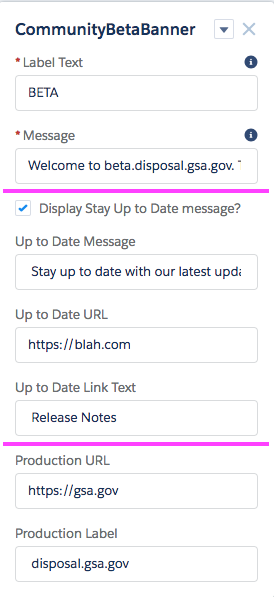
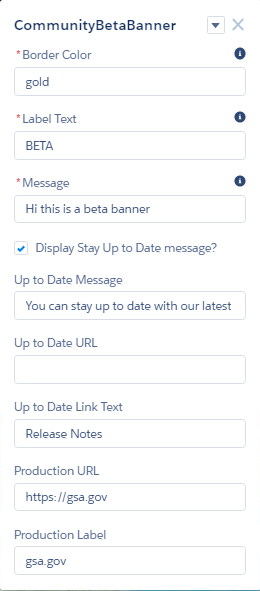
Added new VerticalNavigation component and updated BetaBanner

diff --git a/uswdsVerticalNavigation/src/aura/uswdsVerticalNavigation/uswdsVerticalNavigation.css b/uswdsVerticalNavigation/src/aura/uswdsVerticalNavigation/uswdsVerticalNavigation.css
@@ -1,0 +1,50 @@
+.THIS h2 {
+    font-size: 1.75rem;
+    line-height: 1.2;
+    margin-bottom: 2rem;
+}
+.THIS .usa-sidenav {
+    margin-bottom: 0;
+    margin-top: 0;
+    list-style-type: none;
+    padding-left: 0;
+    font-family: Source Sans Pro Web,Helvetica Neue,Helvetica,Roboto,Arial,sans-serif;
+    font-size: 1.06rem;
+    line-height: 1.3;
+    border-bottom: 1px solid #e6e6e6;
+}
+
+.THIS .usa-sidenav__item {
+    border-top: 1px solid #e6e6e6;
+}
+.THIS .usa-sidenav a {
+    color: #5c5c5c;
+    display: block;
+    padding: .5rem 1rem;
+    text-decoration: none; 
+}
+.THIS .site-nav-secondary ul>li {
+    margin-bottom: 0;
+    max-width: unset;
+}
+.THIS .usa-nav__submenu-list>li {
+    margin-bottom: 0;
+    max-width: unset;
+}
+.THIS  .usa-sidenav>li {
+    margin-bottom: 0;
+    max-width: unset;
+}
+.THIS .usa-sidenav__sublist>li {
+    margin-bottom: 0;
+    max-width: unset;
+}
+.THIS .usa-sidenav__sublist {
+    list-style-type: none;
+    padding-left: 0;
+    margin: 0;
+    font-size: 1rem;
+}
+.THIS .usa-sidenav__sublist a {
+    padding-left: 2rem;
+}

diff --git a/uswdsVerticalNavigation/src/aura/uswdsVerticalNavigation/uswdsVerticalNavigationController.js b/uswdsVerticalNavigation/src/aura/uswdsVerticalNavigation/uswdsVerticalNavigationController.js
@@ -1,0 +1,8 @@
+({
+    onClick : function(component, event, helper) {
+        var id = event.target.dataset.menuItemId;
+        if (id) {
+            component.getSuper().navigate(id);
+         }
+   }
+})

diff --git a/communityBetaBanner/src/aura/communityBetaBanner/communityBetaBanner.css b/communityBetaBanner/src/aura/communityBetaBanner/communityBetaBanner.css
@@ -23,5 +23,5 @@
 @media only screen and (max-width: 1023px) {
     .THIS .padding-small-size {
          padding-top: .75rem;
-    }
+    }   
 }

diff --git a/communityBetaBanner/README.md b/communityBetaBanner/README.md
@@ -3,20 +3,26 @@ This component creates a simple site banner which can indicate to users that a g
 
 ![Beta Banner for Lightning Communities](betaBanner.png)
 
-# Installation Instructions
+## Installation Instructions
 Most apps require a simple deployment via package.xml. Spell out all of the steps here.
 
 1. Deploy package via ANT, `ant deployCode`
 
 # Usage Instructions
-Banner is comprised of three primary sections.
+Banner is comprised of three primary sections as well as the ability to change the banner color.
 ![Builder Menu](communityBetaBannerConfig.png)
 
-## Label & Message
+### Border Color
+Defaults to gold (#ffd700). Input accepts recognized color names or hex values, # must be included, as described at [https://www.w3.org/wiki/CSS/Properties/color/keywords](https://www.w3.org/wiki/CSS/Properties/color/keywords).
+
+### Label & Message
 The label is the text that lives within the gold block. It is suggested to use ALPHA or BETA. The message is the note to users about the site.
 
-## Up to Date Message
+### Up to Date Message
 This is a toggle-able feature which allows for the display of a further message including a link. Here, a site admin can direct users to release notes or another link with information about the new site.
 
-## Production Link
+### Production Link
 This button provides users a link to go back to the main production site.
+
+## Release Notes
+April 28, 2020  - Added new Banner Color component and adjusted character spacing within messages.

diff --git a/uswdsVerticalNavigation/README.md b/uswdsVerticalNavigation/README.md
@@ -1,0 +1,19 @@
+# US Web Design System Vertical Navigation
+Component leverages the [US Web Design System](https://designsystem.digital.gov/components/sidenav/) Side Navigation component and consumes Salesforce Lightning Communities native Navigation Menu Builder data. 
+
+## Installation Instructions
+Most apps require a simple deployment via package.xml. Spell out all of the steps here.
+
+1. Deploy package via ANT, `ant deployCode`
+
+## Usage Instructions
+
+* Navigate to Community Builder
+* Click Settings (cog wheel icon) > Navigation
+* Create navigation menus as needed 
+* Drag component onto page. Define a menu header (optional) as well as Navigation Set Name which can be either the developer name of a Navigation Menu. Developer name is a lowercase version of the label where underscores are substituted for spaces. For instance "My Navigation Menu" would have a developer name of "my_navigation_menu".
+![Builder Menu](verticalNavConfig.png)
+
+
+## Release Notes
+April 28, 2020  - Initial release

diff --git a/CONTRIBUTING.md b/CONTRIBUTING.md
@@ -1,5 +1,5 @@
 # Contributing
-We would love for this collection of components to grow. As such, we have some best practices that we'd like folks to follow so as to make it easier for consumers of these Lightning Components.
+
 
 ## New Components
 - Make a copy of the ..TEMPLATE folder which supplies the requisite folder and document structure.
@@ -13,3 +13,11 @@ cp -a ..TEMPLATE newComponentName
 ## Changes on Existing Components
 - File an issue describing the change
 - Submit pull request against issue
+
+## Practices and Conventions
+
+.design
+- Include a label in your design:component markup to provide users a plain language title. `<design:component label="Image Thumbnail Gallery">`
+
+.svg
+- Utilize a custom svg icon for the component
